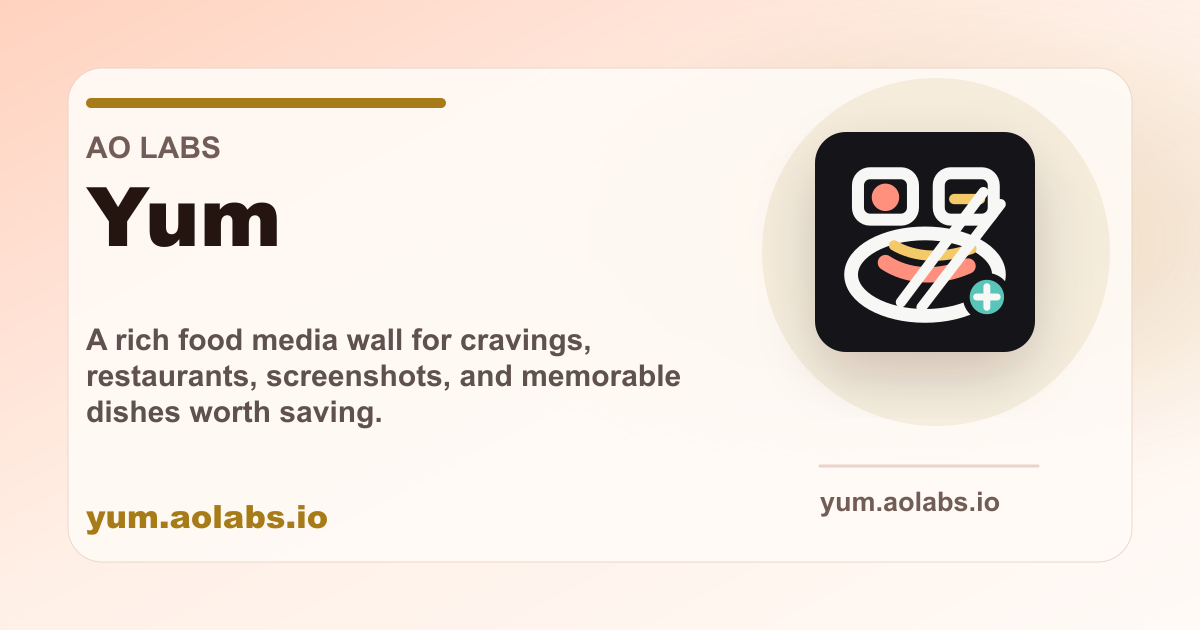
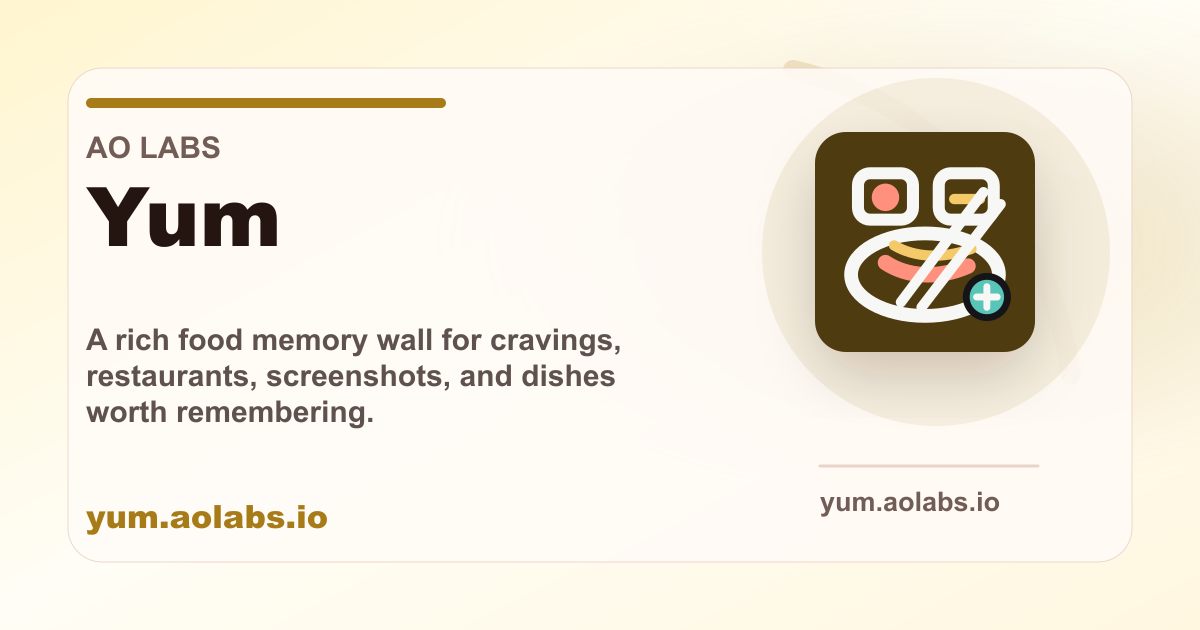
Refine social preview themes

diff --git a/public/index.html b/public/index.html
@@ -5,12 +5,12 @@
     <meta name="viewport" content="width=device-width, initial-scale=1">
     <meta name="theme-color" content="#140e0a">
     <title>Yum</title>
-    <meta name="description" content="A rich food media wall for cravings, restaurants, screenshots, and memorable dishes worth saving.">
+    <meta name="description" content="A rich food memory wall for cravings, restaurants, screenshots, and dishes worth remembering.">
     <link rel="canonical" href="https://yum.aolabs.io/">
     <meta property="og:type" content="website">
     <meta property="og:site_name" content="AO Labs">
     <meta property="og:title" content="Yum">
-    <meta property="og:description" content="A rich food media wall for cravings, restaurants, screenshots, and memorable dishes worth saving.">
+    <meta property="og:description" content="A rich food memory wall for cravings, restaurants, screenshots, and dishes worth remembering.">
     <meta property="og:url" content="https://yum.aolabs.io/">
     <meta property="og:image" content="https://yum.aolabs.io/og-image-20260506.png">
     <meta property="og:image:secure_url" content="https://yum.aolabs.io/og-image-20260506.png">
@@ -20,7 +20,7 @@
     <meta property="og:image:alt" content="Yum by AO Labs preview card.">
     <meta name="twitter:card" content="summary_large_image">
     <meta name="twitter:title" content="Yum">
-    <meta name="twitter:description" content="A rich food media wall for cravings, restaurants, screenshots, and memorable dishes worth saving.">
+    <meta name="twitter:description" content="A rich food memory wall for cravings, restaurants, screenshots, and dishes worth remembering.">
     <meta name="twitter:image" content="https://yum.aolabs.io/og-image-20260506.png">
     <meta name="twitter:image:alt" content="Yum by AO Labs preview card.">
     <link rel="icon" href="/icon.svg?v=20260506-icons" type="image/svg+xml">
